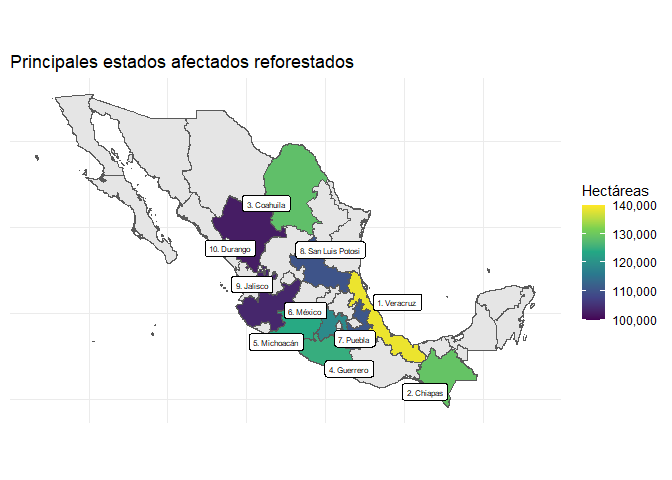
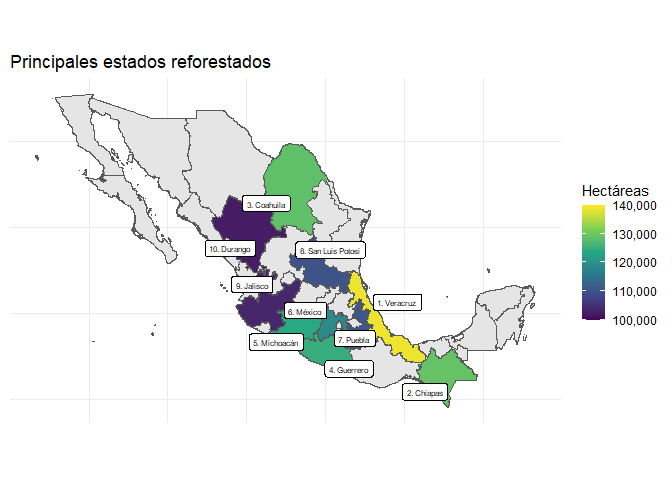
1

Changed region(s): [[0.25, 0.0938, 0.5312, 0.1562], [0.5, 0.7188, 0.5312, 0.75]]

diff --git a/README.md b/README.md
@@ -291,7 +291,7 @@ theme(axis.text = element_blank()) +
 labs(x = NULL,
      y = NULL,
      fill = 'Hectáreas',
-     title = 'Principales estados afectados reforestados')
+     title = 'Principales estados reforestados')
 
 mapa_incendios
 ```
